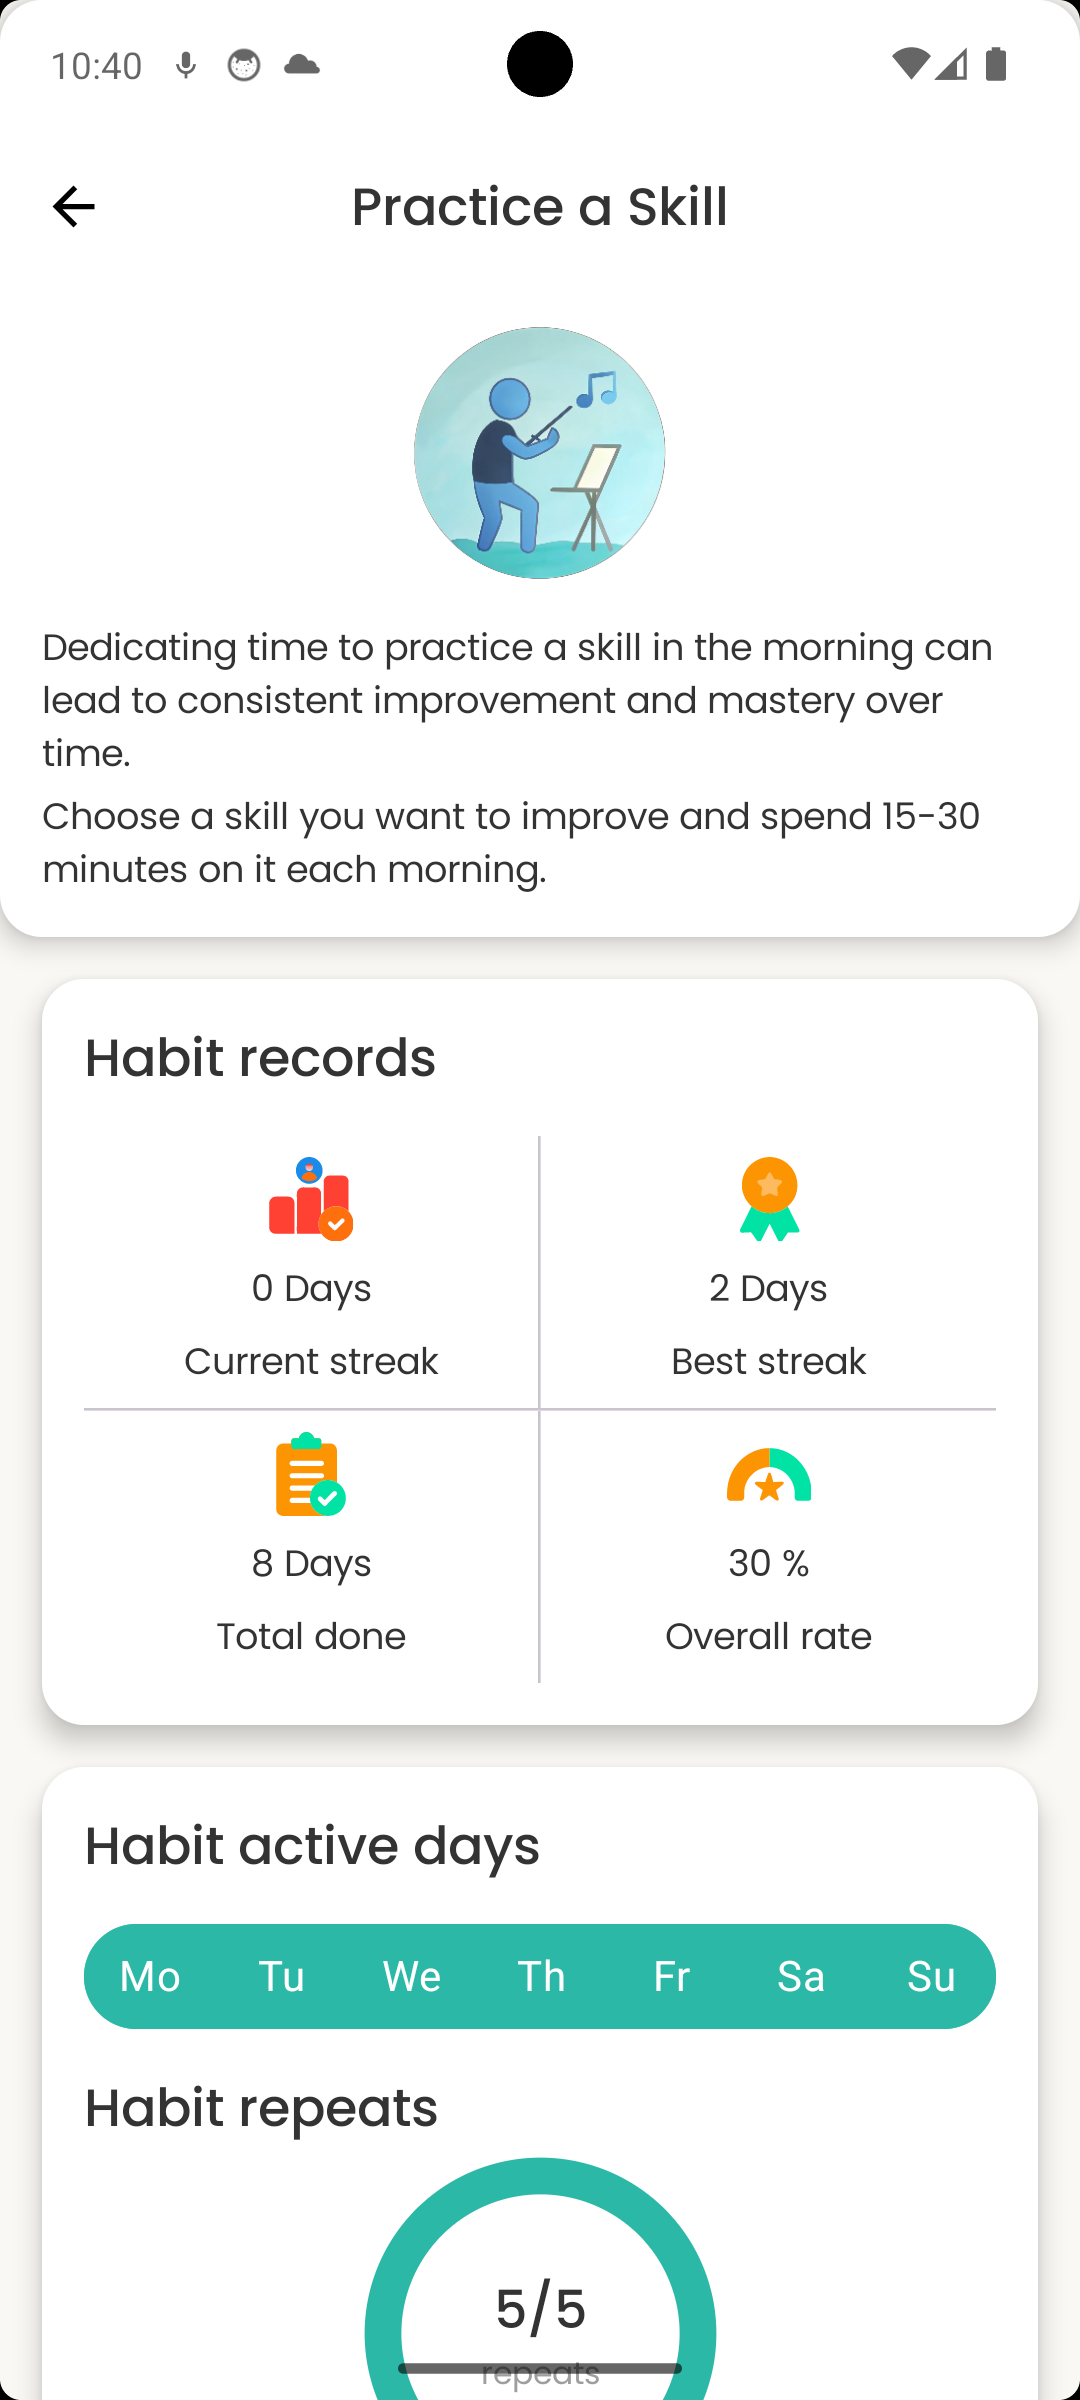
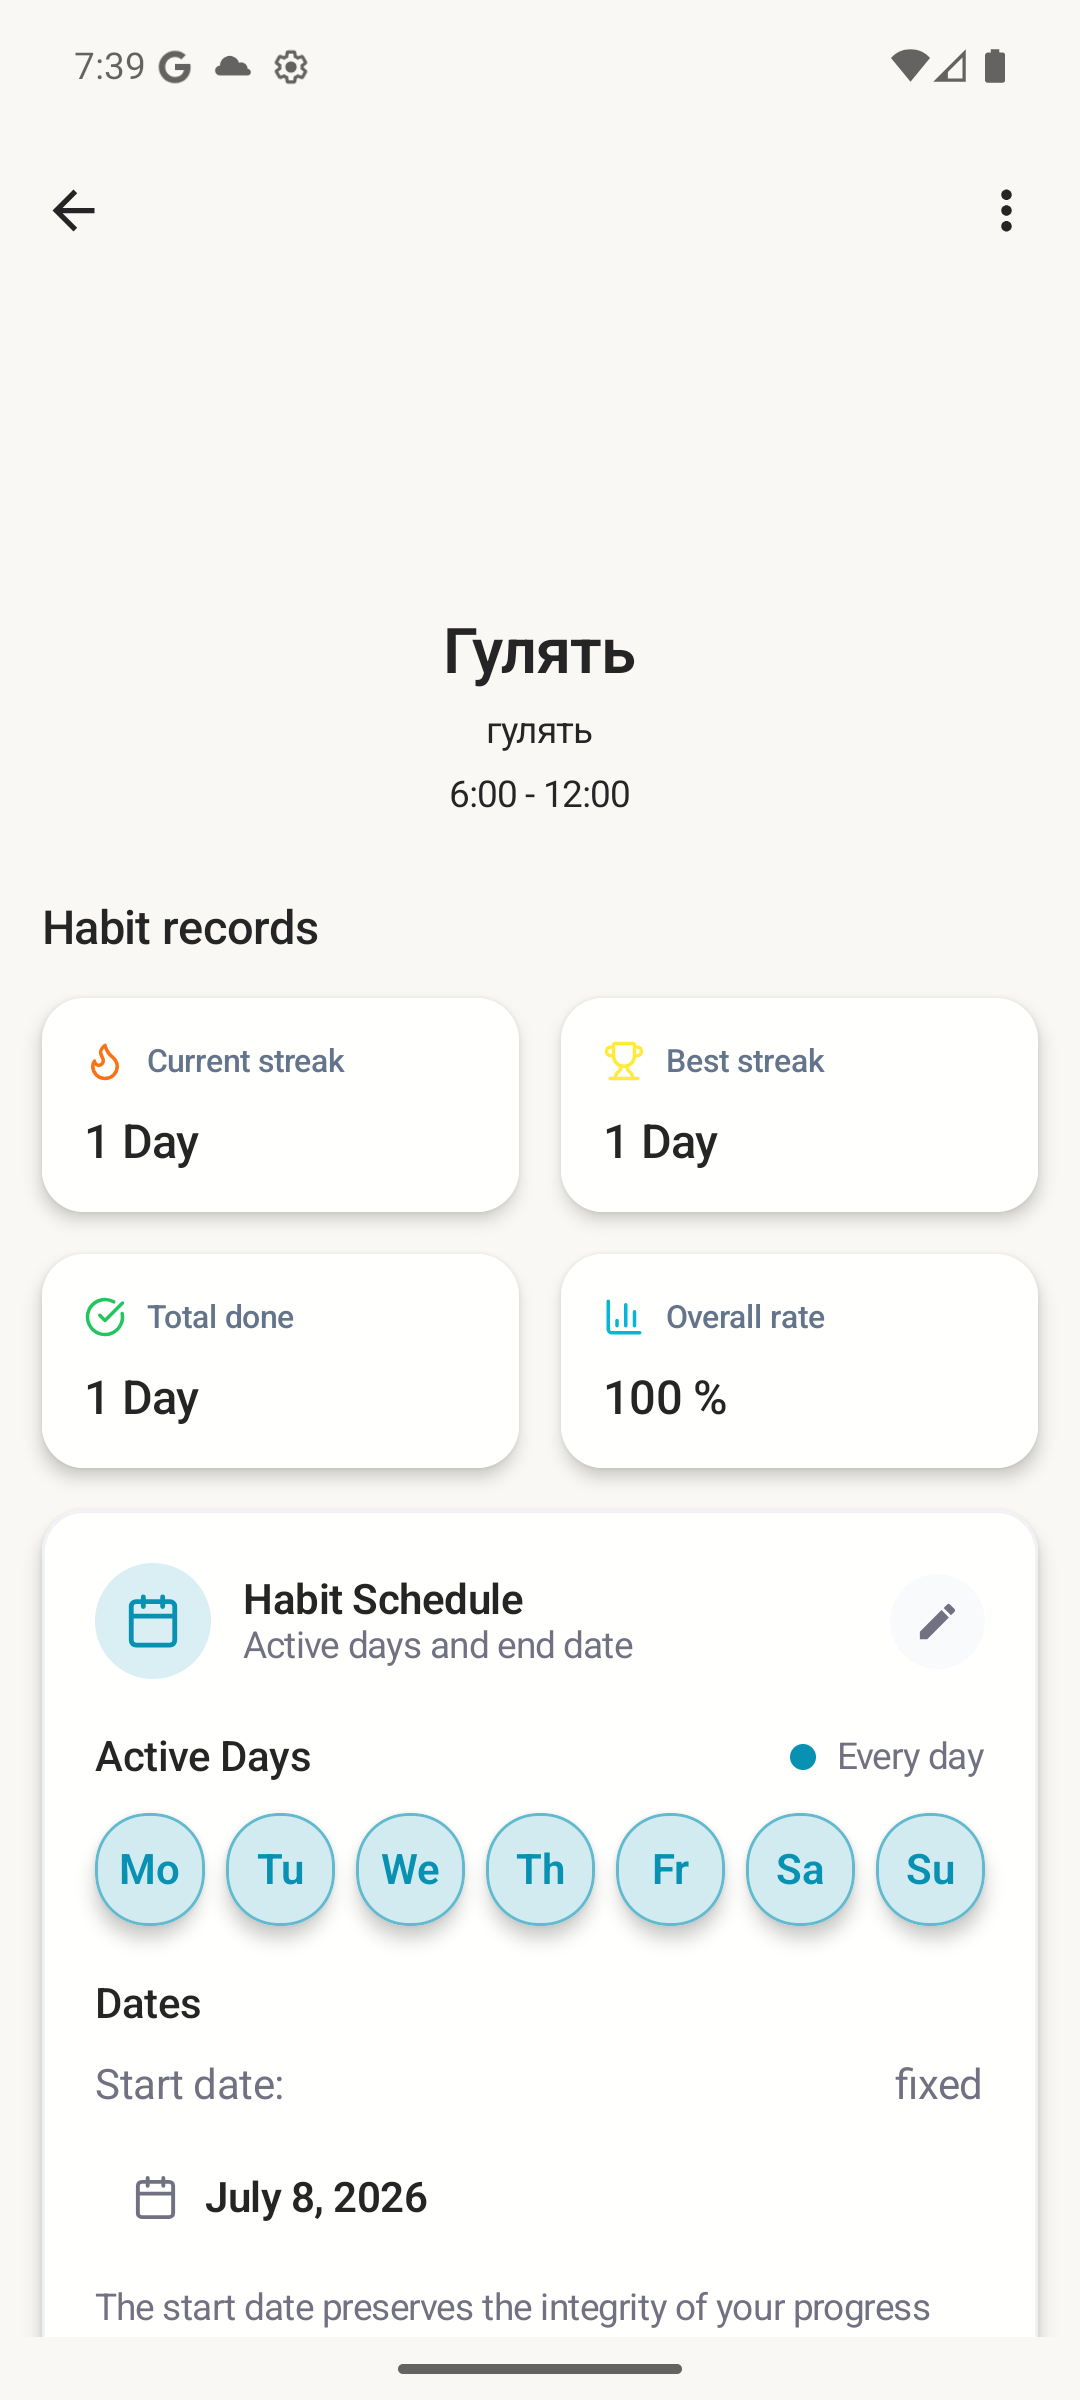
docs: showcase completed habit progress

diff --git a/README.md b/README.md
@@ -43,9 +43,9 @@ HabitBloom makes progress tangible. Plan a habit for the morning, afternoon, or 
       <sub>A visual home for every habit you nurture.</sub>
     </td>
     <td align="center" width="33%">
-      <img src="screenshots/create_habit.png" alt="HabitBloom habit creation flow" width="250" /><br />
-      <strong>Shape your routine</strong><br />
-      <sub>A guided flow from category to schedule.</sub>
+      <img src="screenshots/habit_details.png" alt="HabitBloom habit details screen" width="250" /><br />
+      <strong>Follow every habit</strong><br />
+      <sub>Streaks, completion rate, and schedule at a glance.</sub>
     </td>
   </tr>
 </table>
